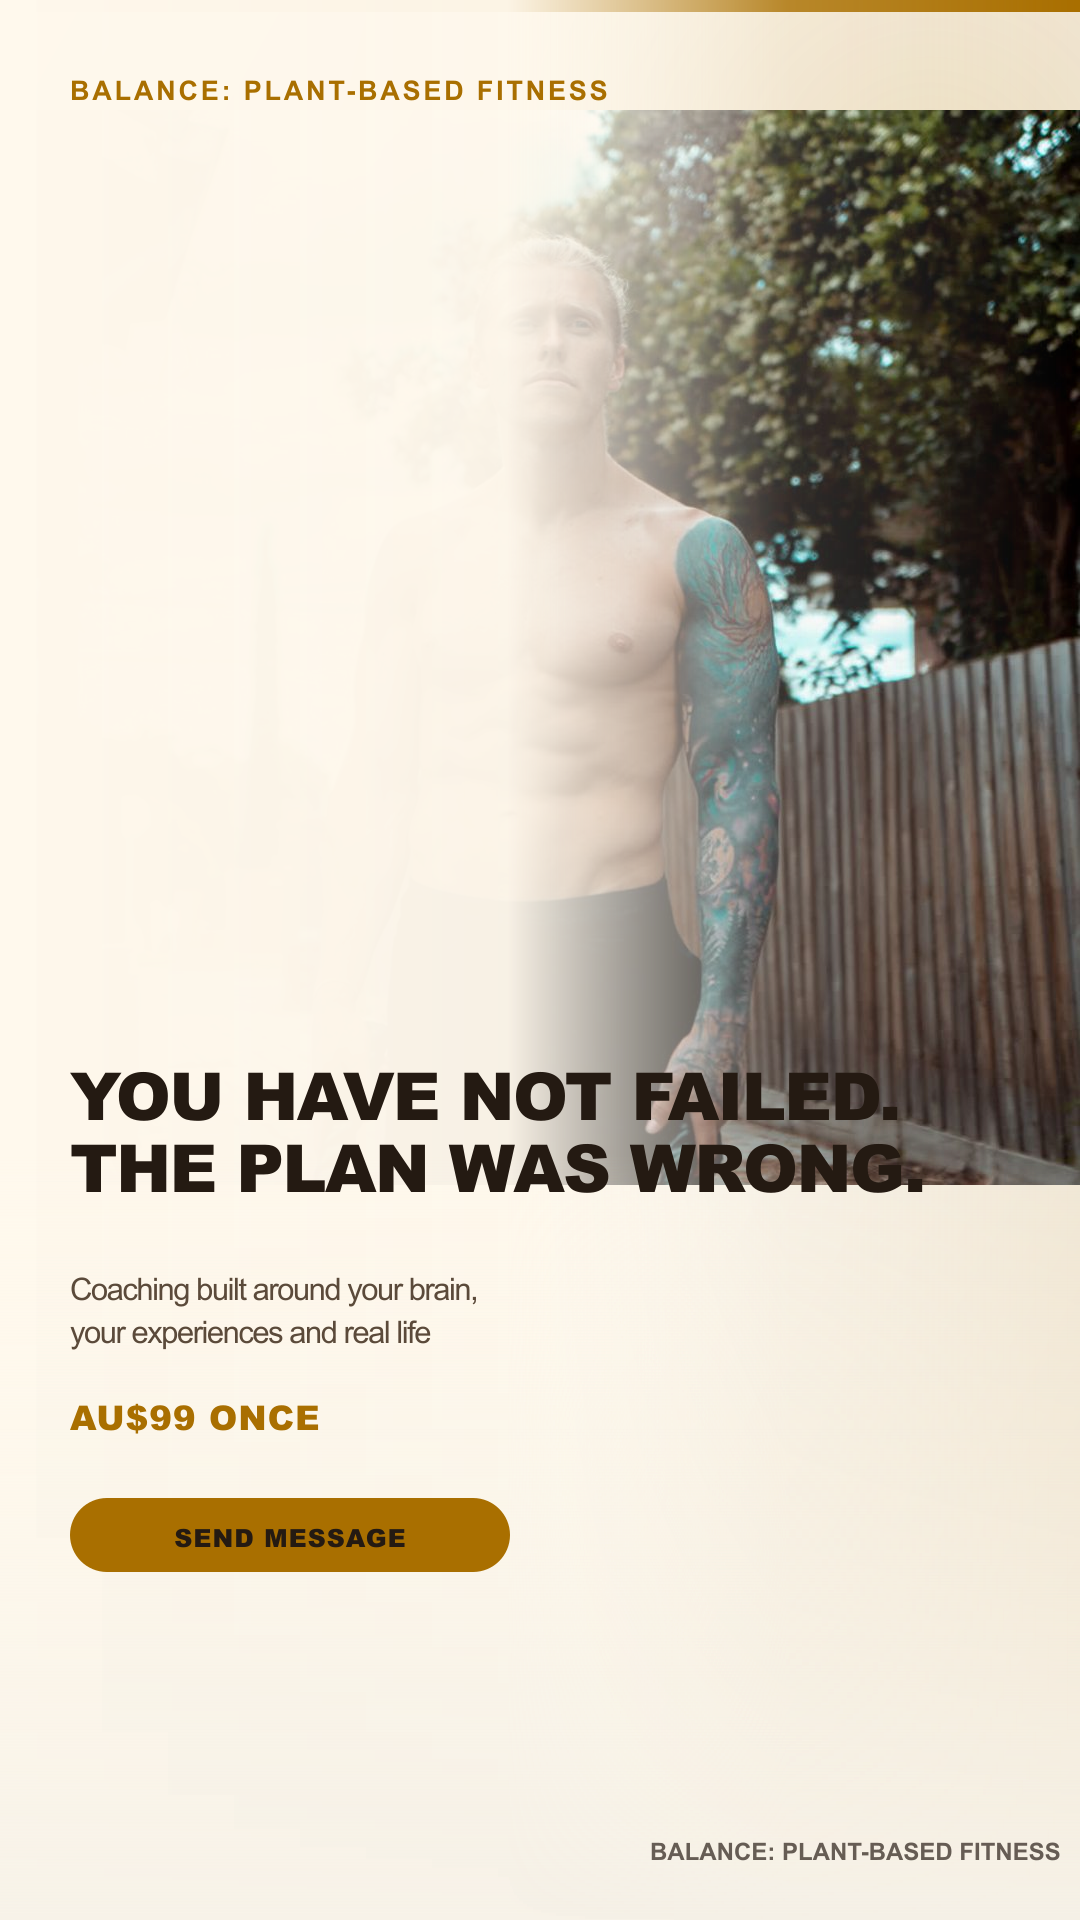
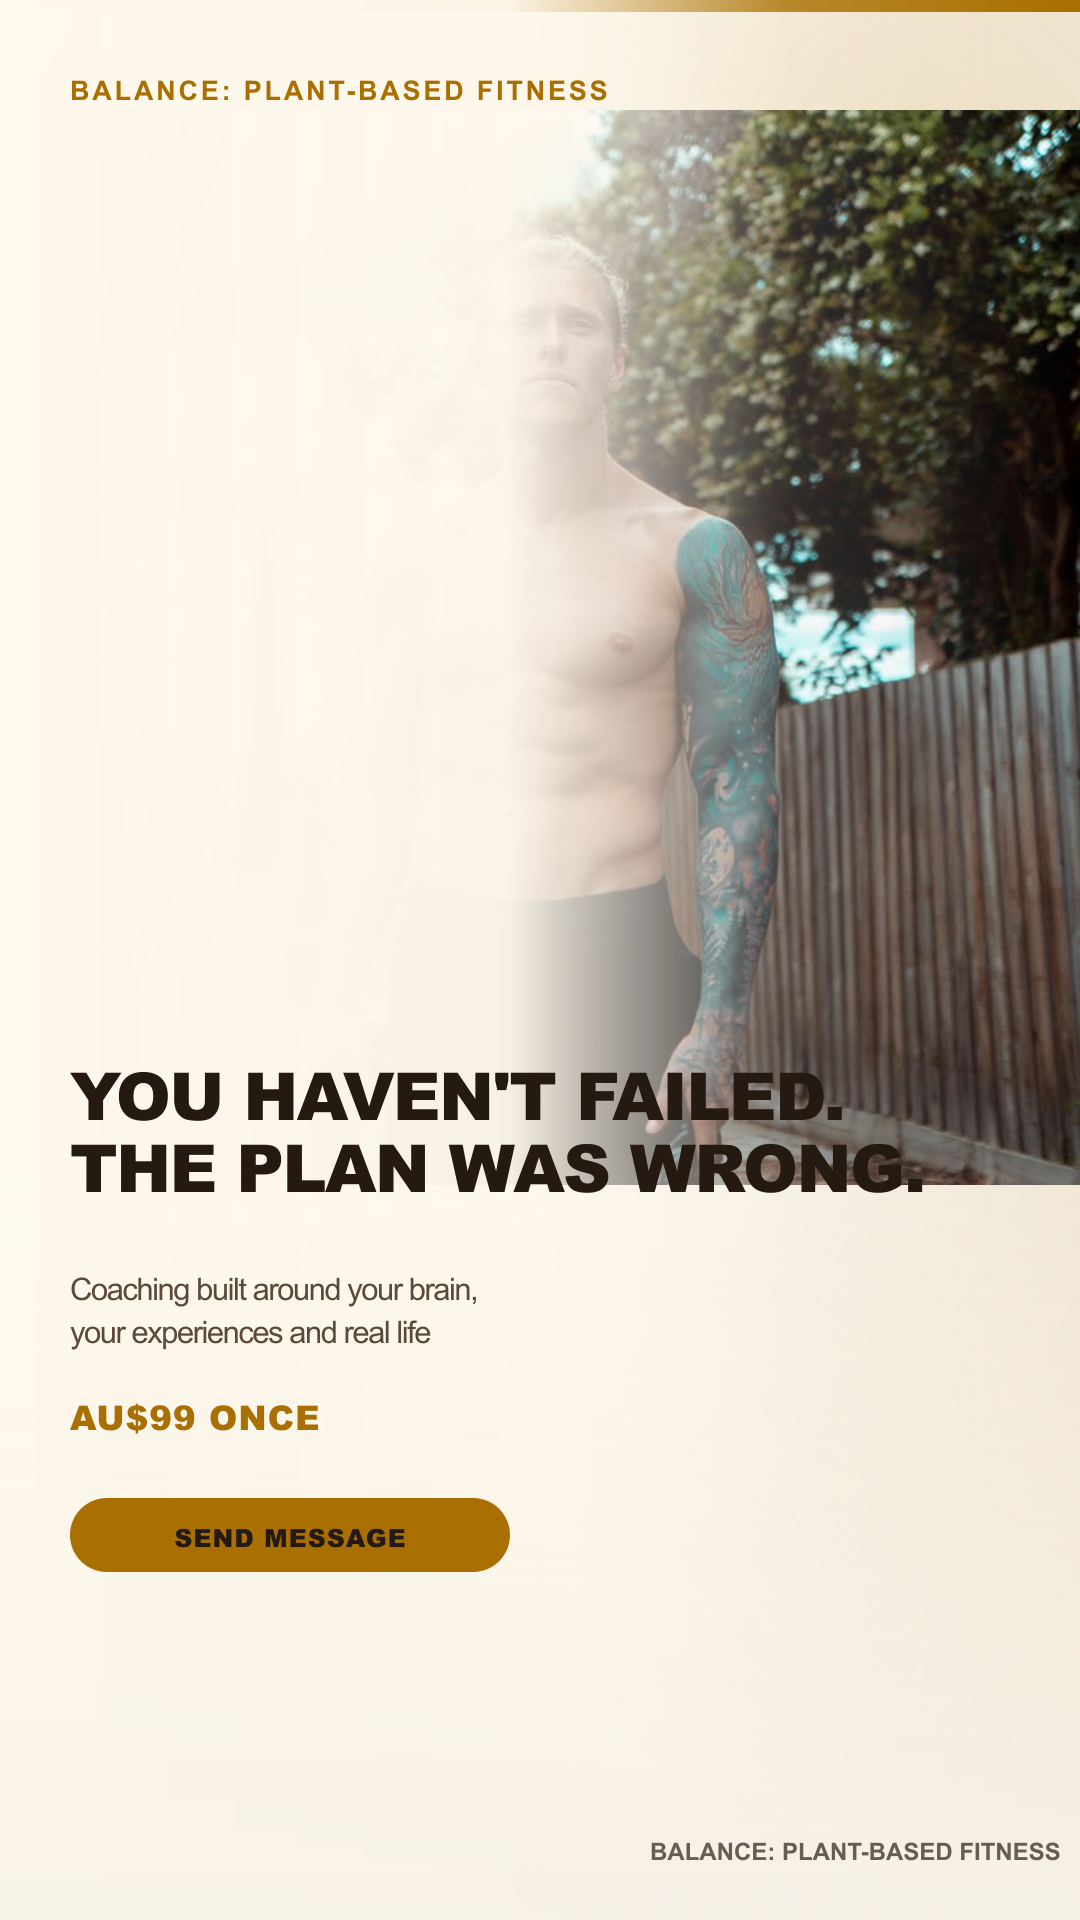
Use natural contractions in Meta ad copy

Changed region(s): [[0.3972, 0.5312, 0.825, 0.5938]]

diff --git a/output/meta-founders-pass-campaign-2026-07-22/review.html b/output/meta-founders-pass-campaign-2026-07-22/review.html
@@ -1,1 +1,1 @@
-<!doctype html><html><head><meta charset="utf-8"><meta name="viewport" content="width=device-width,initial-scale=1"><title>Balance Founders Pass Meta Campaign</title><style>body{margin:0;background:#f7f2e8;color:#241a12;font:16px/1.55 Arial,sans-serif}header{padding:48px max(24px,5vw);background:linear-gradient(135deg,#fff9ed,#eadcc2);border-bottom:8px solid #d8a43a}h1{font-size:clamp(36px,6vw,76px);line-height:.95;margin:12px 0}header p{max-width:760px;color:#5b4a3a}main{padding:36px max(20px,4vw);display:grid;gap:36px}article{display:grid;grid-template-columns:minmax(280px,520px) 1fr;gap:36px;align-items:start;background:#fff9ed;border:1px solid #d8a43a;border-radius:24px;padding:20px;box-shadow:0 18px 44px #6b4d241c}img,video{width:100%;border-radius:14px;background:#160d20}span{color:#a96f00;font-weight:900;letter-spacing:2px}h2{font-size:34px;line-height:1.05}p{color:#5b4a3a}@media(max-width:800px){article{grid-template-columns:1fr}header{padding-top:30px}}</style></head><body><header><span>READY FOR REVIEW</span><h1>Balance: Plant-Based Fitness<br>Founders Pass</h1><p>Brain-aware change, small clear steps, and plant-based community support. Campaign defaults to PAUSED, AU$20 per day, Australia broad 24–54, Instagram Direct conversations.</p></header><main><article><img src="01-coach-in-your-corner-feed-1080x1350.png" alt="You have not failed. The plan was wrong."><div><span>AD 1</span><h2>You have not failed. The plan was wrong.</h2><p>You have not failed. The plan was wrong. It was not built around your brain, what you have been through, or what you are dealing with now. Inside Balance, I coach plant-based people with small, clear steps that fit their current starting point. The Founders Pass is AU$99 once. Message “BALANCE” and I will show you what is included.</p><p><strong>Headline:</strong> You have not failed. The plan was wrong.</p><p><strong>Description:</strong> Plant-based coaching built around real life</p></div></article><article><img src="02-stop-restarting-feed-1080x1350.png" alt="Small steps. A rhythm that lasts."><div><span>AD 2</span><h2>Small steps. A rhythm that lasts.</h2><p>Real change is not about finding more motivation or forcing more effort. Your brain learns through repetition, and your environment shapes what gets repeated. Balance gives plant-based people small, clear steps and six weeks of support to build a rhythm that fits real life. Message “BALANCE” for the Founders Pass details.</p><p><strong>Headline:</strong> Small steps. A rhythm that lasts.</p><p><strong>Description:</strong> Change made clearer for plant-based people</p></div></article><article><img src="03-six-weeks-lifetime-access-feed-1080x1350.png" alt="Six weeks with Shannon. Lifetime core access."><div><span>AD 3</span><h2>Six weeks with Shannon. Lifetime core access.</h2><p>The Balance: Plant-Based Fitness Founders Pass is simple. Pay AU$99 once, get six weeks of one-to-one in-app coaching support from me, then keep lifetime access to the core Balance app and plant-based community. Message “BALANCE” and I will show you what is included.</p><p><strong>Headline:</strong> Six weeks with Shannon. Lifetime core access.</p><p><strong>Description:</strong> The Balance: Plant-Based Fitness Founders Pass</p></div></article><article><img src="04-plant-based-clarity-feed-1080x1350.png" alt="Plant-based fitness, made clearer"><div><span>AD 4</span><h2>Plant-based fitness, made clearer</h2><p>Plant-based fitness does not need more noise. Balance puts training, nutrition and progress tools together, with small, clear steps and six weeks of coaching support from me when you need direction. The Founders Pass is AU$99 once and includes lifetime core app and community access. Message “BALANCE” for details.</p><p><strong>Headline:</strong> Plant-based fitness, made clearer</p><p><strong>Description:</strong> Training, nutrition, progress and support</p></div></article><article><img src="05-not-doing-it-alone-feed-1080x1350.png" alt="Plant-based fitness is better together"><div><span>AD 5</span><h2>Plant-based fitness is better together</h2><p>Your environment shapes what gets repeated. Balance gives you a plant-based community where training, progress and support live together. The Founders Pass includes six weeks with me in your corner, then lifetime access to the core app and community. AU$99 once. Message “BALANCE” to see what is included.</p><p><strong>Headline:</strong> Plant-based fitness is better together</p><p><strong>Description:</strong> Join the Balance founding members</p></div></article><article><img src="06-built-by-shannon-feed-1080x1350.png" alt="Plant-based fitness, built for real life"><div><span>AD 6</span><h2>Plant-based fitness, built for real life</h2><p>I built Balance because plant-based fitness should feel less lonely and less complicated. I am an exercise scientist and former gym owner, and I coach change through small, clear steps that fit real life. The Founders Pass gives you six weeks of coaching support with me, plus lifetime core app and plant-based community access for AU$99 once. Message “BALANCE” and I will talk you through it.</p><p><strong>Headline:</strong> Plant-based fitness, built for real life</p><p><strong>Description:</strong> Meet Shannon and the Balance Founders Pass</p></div></article><article><video controls playsinline src="../../assets/balance-founders-pass-dm-preview.mp4"></video><div><span>DM FOLLOW-UP</span><h2>Show the app, then make the offer clear.</h2><p><strong>FOUNDERS PASS<br>AU$99 ONCE<br>6 WEEKS WITH SHANNON<br>LIFETIME CORE ACCESS</strong></p><p>Hey, glad you messaged. Here is a quick look inside Balance so you can actually see what I mean.</p><p>Balance brings your weekly plan, plant-based nutrition, progress, learning and community into one place. The Founders Pass is AU$99 once. You get six weeks of one-to-one in-app support with me, then lifetime access to the core app and plant-based community.</p><p><strong>Quick replies:</strong> What’s included? · Is this right for me? · I’m ready to start</p><p><strong>Checkout:</strong> https://plantbased-balance.org/plant-based-fitness.html</p></div></article></main></body></html>
+<!doctype html><html><head><meta charset="utf-8"><meta name="viewport" content="width=device-width,initial-scale=1"><title>Balance Founders Pass Meta Campaign</title><style>body{margin:0;background:#f7f2e8;color:#241a12;font:16px/1.55 Arial,sans-serif}header{padding:48px max(24px,5vw);background:linear-gradient(135deg,#fff9ed,#eadcc2);border-bottom:8px solid #d8a43a}h1{font-size:clamp(36px,6vw,76px);line-height:.95;margin:12px 0}header p{max-width:760px;color:#5b4a3a}main{padding:36px max(20px,4vw);display:grid;gap:36px}article{display:grid;grid-template-columns:minmax(280px,520px) 1fr;gap:36px;align-items:start;background:#fff9ed;border:1px solid #d8a43a;border-radius:24px;padding:20px;box-shadow:0 18px 44px #6b4d241c}img,video{width:100%;border-radius:14px;background:#160d20}span{color:#a96f00;font-weight:900;letter-spacing:2px}h2{font-size:34px;line-height:1.05}p{color:#5b4a3a}@media(max-width:800px){article{grid-template-columns:1fr}header{padding-top:30px}}</style></head><body><header><span>READY FOR REVIEW</span><h1>Balance: Plant-Based Fitness<br>Founders Pass</h1><p>Brain-aware change, small clear steps, and plant-based community support. Campaign defaults to PAUSED, AU$20 per day, Australia broad 24–54, Instagram Direct conversations.</p></header><main><article><img src="01-coach-in-your-corner-feed-1080x1350.png" alt="You haven't failed. The plan was wrong."><div><span>AD 1</span><h2>You haven't failed. The plan was wrong.</h2><p>You haven't failed. The plan was wrong. It wasn't built around your brain, what you've been through, or what you're dealing with now. Inside Balance, I coach plant-based people with small, clear steps that fit their current starting point. The Founders Pass is AU$99 once. Message “BALANCE” and I'll show you what's included.</p><p><strong>Headline:</strong> You haven't failed. The plan was wrong.</p><p><strong>Description:</strong> Plant-based coaching built around real life</p></div></article><article><img src="02-stop-restarting-feed-1080x1350.png" alt="Small steps. A rhythm that lasts."><div><span>AD 2</span><h2>Small steps. A rhythm that lasts.</h2><p>Real change is not about finding more motivation or forcing more effort. Your brain learns through repetition, and your environment shapes what gets repeated. Balance gives plant-based people small, clear steps and six weeks of support to build a rhythm that fits real life. Message “BALANCE” for the Founders Pass details.</p><p><strong>Headline:</strong> Small steps. A rhythm that lasts.</p><p><strong>Description:</strong> Change made clearer for plant-based people</p></div></article><article><img src="03-six-weeks-lifetime-access-feed-1080x1350.png" alt="Six weeks with Shannon. Lifetime core access."><div><span>AD 3</span><h2>Six weeks with Shannon. Lifetime core access.</h2><p>The Balance: Plant-Based Fitness Founders Pass is simple. Pay AU$99 once, get six weeks of one-to-one in-app coaching support from me, then keep lifetime access to the core Balance app and plant-based community. Message “BALANCE” and I will show you what is included.</p><p><strong>Headline:</strong> Six weeks with Shannon. Lifetime core access.</p><p><strong>Description:</strong> The Balance: Plant-Based Fitness Founders Pass</p></div></article><article><img src="04-plant-based-clarity-feed-1080x1350.png" alt="Plant-based fitness, made clearer"><div><span>AD 4</span><h2>Plant-based fitness, made clearer</h2><p>Plant-based fitness does not need more noise. Balance puts training, nutrition and progress tools together, with small, clear steps and six weeks of coaching support from me when you need direction. The Founders Pass is AU$99 once and includes lifetime core app and community access. Message “BALANCE” for details.</p><p><strong>Headline:</strong> Plant-based fitness, made clearer</p><p><strong>Description:</strong> Training, nutrition, progress and support</p></div></article><article><img src="05-not-doing-it-alone-feed-1080x1350.png" alt="Plant-based fitness is better together"><div><span>AD 5</span><h2>Plant-based fitness is better together</h2><p>Your environment shapes what gets repeated. Balance gives you a plant-based community where training, progress and support live together. The Founders Pass includes six weeks with me in your corner, then lifetime access to the core app and community. AU$99 once. Message “BALANCE” to see what is included.</p><p><strong>Headline:</strong> Plant-based fitness is better together</p><p><strong>Description:</strong> Join the Balance founding members</p></div></article><article><img src="06-built-by-shannon-feed-1080x1350.png" alt="Plant-based fitness, built for real life"><div><span>AD 6</span><h2>Plant-based fitness, built for real life</h2><p>I built Balance because plant-based fitness should feel less lonely and less complicated. I am an exercise scientist and former gym owner, and I coach change through small, clear steps that fit real life. The Founders Pass gives you six weeks of coaching support with me, plus lifetime core app and plant-based community access for AU$99 once. Message “BALANCE” and I will talk you through it.</p><p><strong>Headline:</strong> Plant-based fitness, built for real life</p><p><strong>Description:</strong> Meet Shannon and the Balance Founders Pass</p></div></article><article><video controls playsinline src="../../assets/balance-founders-pass-dm-preview.mp4"></video><div><span>DM FOLLOW-UP</span><h2>Show the app, then make the offer clear.</h2><p><strong>FOUNDERS PASS<br>AU$99 ONCE<br>6 WEEKS WITH SHANNON<br>LIFETIME CORE ACCESS</strong></p><p>Hey, glad you messaged. Here is a quick look inside Balance so you can actually see what I mean.</p><p>Balance brings your weekly plan, plant-based nutrition, progress, learning and community into one place. The Founders Pass is AU$99 once. You get six weeks of one-to-one in-app support with me, then lifetime access to the core app and plant-based community.</p><p><strong>Reply mode:</strong> Free text only - no visible reply buttons</p><p><strong>Checkout:</strong> https://plantbased-balance.org/plant-based-fitness.html</p></div></article></main></body></html>

diff --git a/fitness-coaching.html b/fitness-coaching.html
@@ -43,7 +43,7 @@
     <header class="topbar"><a class="brand" href="balance.html"><img src="balance_logo.png" alt="Balance"><span>Balance</span></a><a class="top-cta" href="#join" data-track="cta_click">See the Founders Pass</a></header>
     <main>
         <section class="hero"><div class="wrap hero-grid">
-            <div><div class="eyebrow">Fitness coaching built around real life</div><h1>A plan you can <span>actually return to.</span></h1><p class="lead">If your routine falls apart whenever work, kids or life get busy, you have not failed. You need a starting point that fits the week you actually have, plus support when that week changes.</p><div class="price-row"><div class="price">AU$99</div><div class="muted">once<br>Founders Pass</div></div><a class="cta" href="#join" data-track="cta_click">Show me how Balance works</a><p class="muted">Six weeks with Shannon. Lifetime core app and community access.</p></div>
+            <div><div class="eyebrow">Fitness coaching built around real life</div><h1>A plan you can <span>actually return to.</span></h1><p class="lead">If your routine falls apart whenever work, kids or life get busy, you haven't failed. You need a starting point that fits the week you actually have, plus support when that week changes.</p><div class="price-row"><div class="price">AU$99</div><div class="muted">once<br>Founders Pass</div></div><a class="cta" href="#join" data-track="cta_click">Show me how Balance works</a><p class="muted">Six weeks with Shannon. Lifetime core app and community access.</p></div>
             <div class="photo-card"><img src="photos/what-i-offer-portrait.jpg" alt="Shannon training with a barbell"><div class="photo-note"><strong>Start lighter.</strong>Build the rhythm before adding more.</div></div>
         </div></section>
         <div class="proof"><div class="wrap proof-grid"><div class="proof-item"><strong>Clear next steps</strong><span>Know what matters this week</span></div><div class="proof-item"><strong>Six weeks with Shannon</strong><span>Direction when life changes</span></div><div class="proof-item"><strong>You keep control</strong><span>Suggestions with reasons, not commands</span></div></div></div>

diff --git a/tests/meta-ad-founders-pass-dm.test.js b/tests/meta-ad-founders-pass-dm.test.js
@@ -142,5 +142,8 @@ test('campaign package remains paused and points to the deployed funnel assets',
     assert.equal(plan.dmWelcome.checkoutUrl, 'https://plantbased-balance.org/plant-based-fitness.html');
     assert.deepEqual(plan.dmWelcome.quickReplies, []);
     assert.match(plan.dmWelcome.rule, /Do not configure visible quick-reply buttons/i);
+    assert.match(plan.ads[0].primaryText, /You haven't failed/);
+    assert.doesNotMatch(plan.ads[0].primaryText, /\byou have not\b/i);
+    assert.match(fs.readFileSync(path.join(root, 'fitness-coaching.html'), 'utf8'), /you haven't failed/i);
     assert.ok(fs.statSync(path.join(root, 'assets', 'balance-founders-pass-dm-preview.mp4')).size > 1_000_000);
 });

diff --git a/content-lab/SHANNON-CONTENT-EDIT-MEMORY.md b/content-lab/SHANNON-CONTENT-EDIT-MEMORY.md
@@ -120,6 +120,7 @@ When Shannon gives explicit edit feedback, treat it as a reusable production rul
 
 | Date | Shannon's direction | Scalable rule | Affected formats |
 | --- | --- | --- | --- |
+| 2026-07-31 | The ad caption says `you have not failed`; always abbreviate it. | Use the natural contraction `you haven't` everywhere in Shannon's public-facing copy. Audit the surrounding sentence for the same issue, such as `it wasn't`, `you've`, `you're`, `I'll`, and `what's`, before approving or publishing. | Ad captions, headlines, creative artwork, landing pages, public-facing Shannon copy |
 | 2026-07-31 | Use the lateral-raise three-mistake flow, start full-screen, keep the exercise moving, use the saved Fahh sound, avoid inaccurate circles, and finish by saying what I do with my clients. | Port the real V7 animated mistake cards and Fahh stack; alternate full-screen presenter, split and live exercise; keep anatomy brief and exact; end with a concrete Balance coaching bridge and `Comment BALANCE below`. | Exercise Reels, avatar Reels, coaching CTAs, audio and motion design |
 | 2026-07-30 | Check Tahlia's Feed comment frequency and make sure she does not comment on every post, roughly 3-7 per day. | Use a deterministic 3-7 Brisbane-day target, a two-hour minimum interval, and a stable 50% post-selection gate so skipped posts remain skipped. | Balance Feed, Tahlia social worker, Feed comments |
 | 2026-07-29 | Remove Tahlia's posts from the Feed and automate only very short comments, never more than once per post. | Disable all Tahlia-authored Feed posts, remove existing and pending ones, and auto-publish only allowlisted 1-3 word comments behind a database one-comment-per-post guard. | Balance Feed, Tahlia social worker, Feed comments |
